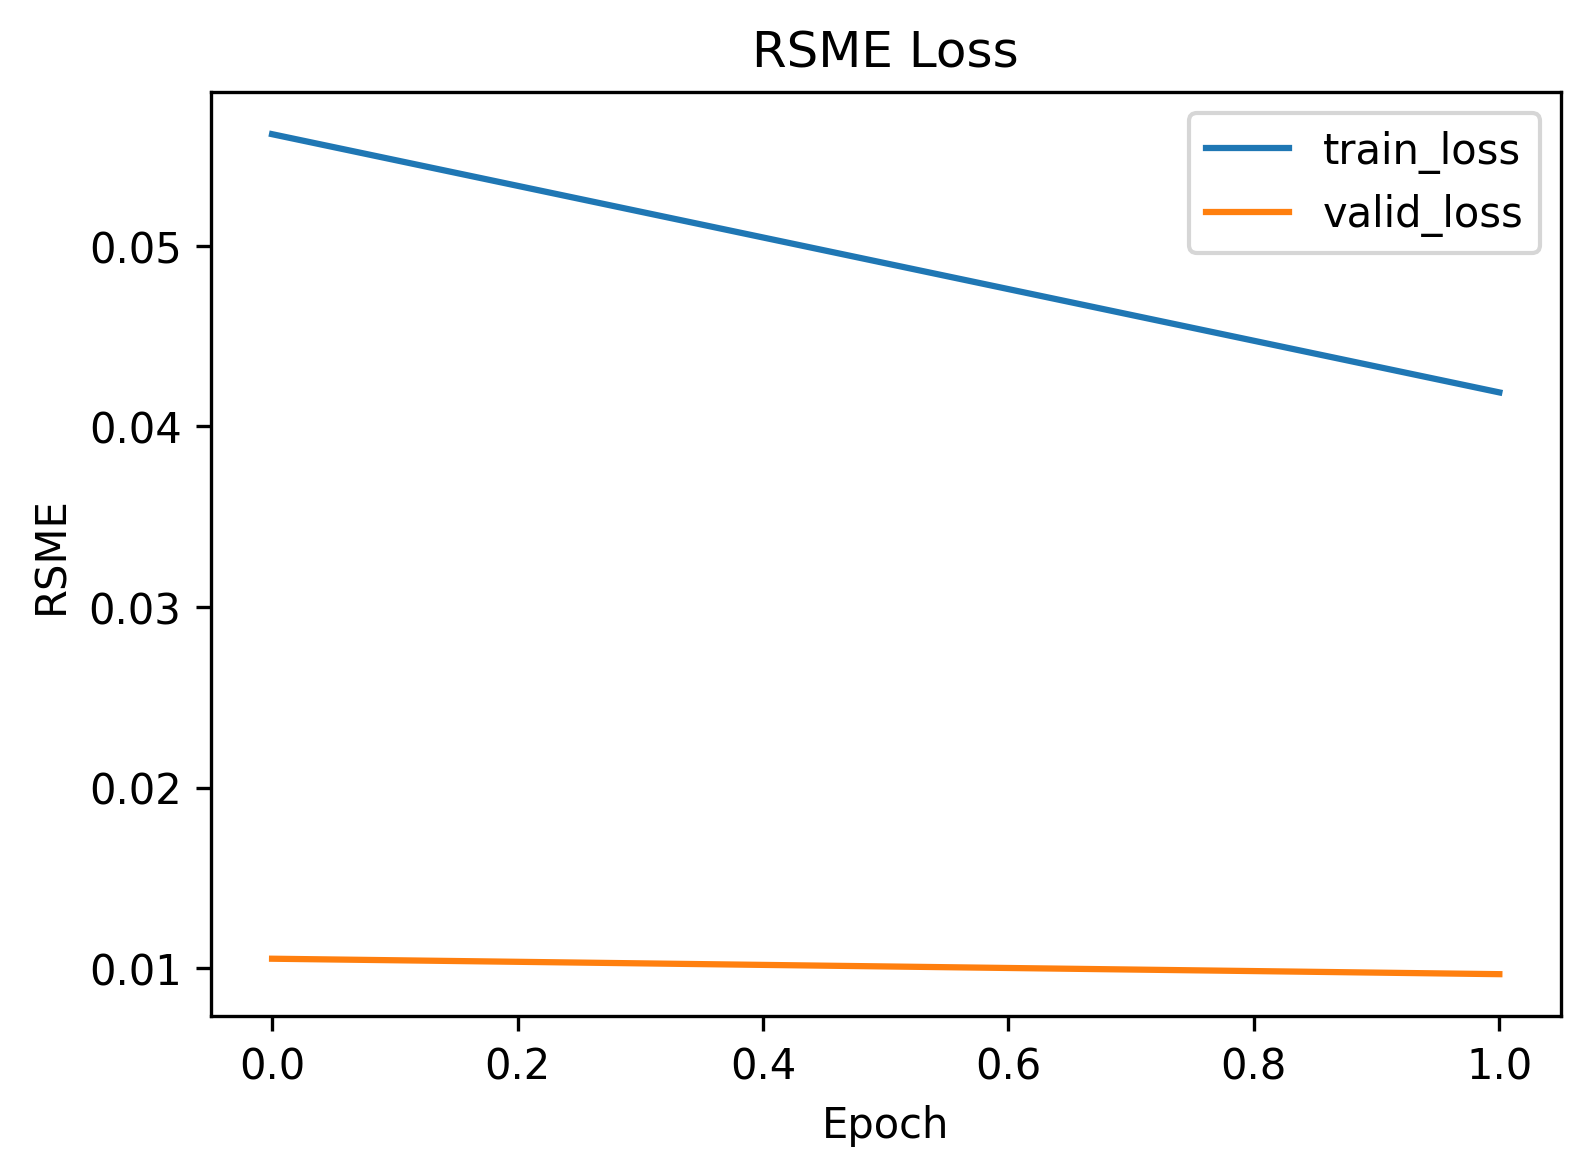
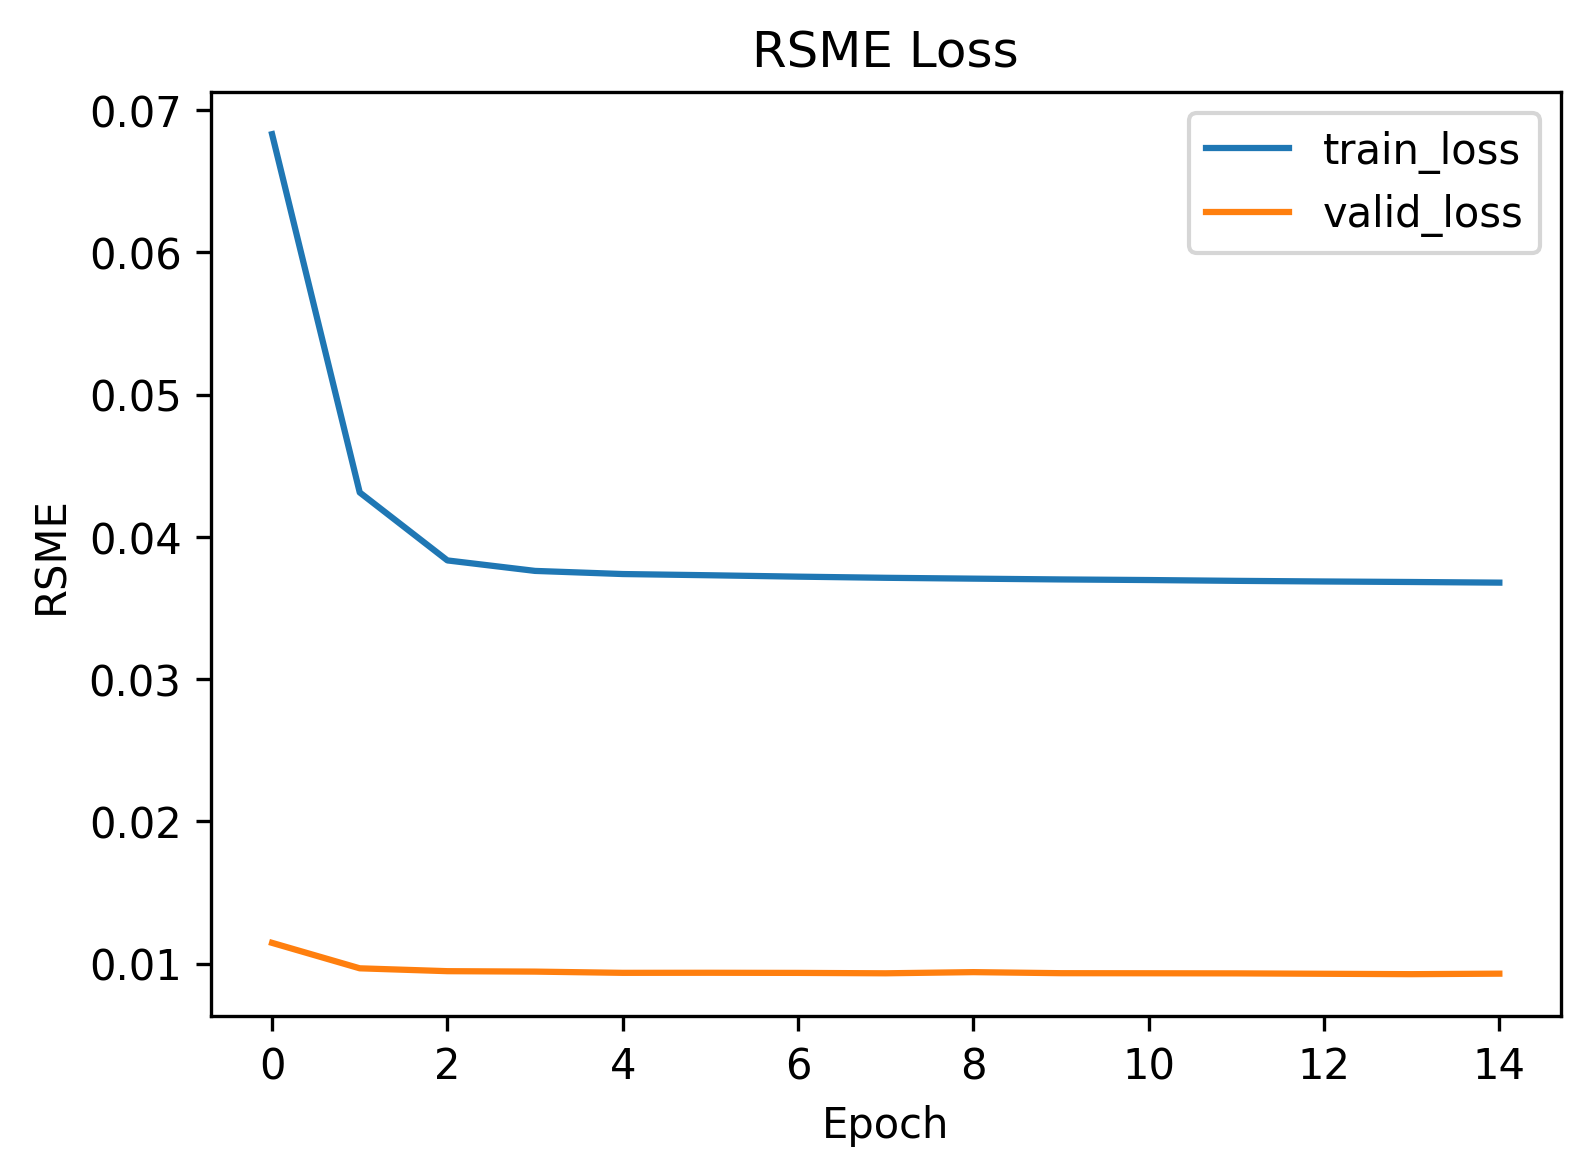
Prediction added for single and batch

diff --git a/src/MovieML/movie_predict.py b/src/MovieML/movie_predict.py
@@ -1,0 +1,139 @@
+import torch
+
+from sklearn.metrics import confusion_matrix
+import seaborn as sn
+import pandas as pd
+import numpy as np
+import matplotlib.pyplot as plt
+from movie_dataset import MovieDataset
+from movie_model import MovieRecommender
+from movie_globals import *
+
+def get_model(movie_data):
+    # define counts for embedding layers
+    num_users = movie_data.num_users
+    num_ages = movie_data.num_ages
+    num_genders = movie_data.num_genders
+    num_occupations = movie_data.num_occupations
+    num_movies = movie_data.num_movies
+    num_genres = movie_data.num_genres
+
+    # define hyperparameters
+    embedding_size = 50
+    hidden_size = 10
+
+    # My GPU doesn't have enough memory to train this model
+    #device = torch.device('cuda' if torch.cuda.is_available() else 'cpu')
+    device = torch.device('cpu')
+
+    # create model and move to device
+    model = MovieRecommender(num_users, num_genders, num_ages, num_occupations,
+                            num_movies, num_genres,
+                            embedding_size, hidden_size).to(device)
+
+    return model
+
+def predict_single(model, movie_data, n, device):
+     # get rating data piece
+    d = movie_data[n]
+    #print(d)
+    # X
+    user_ids_batch = torch.tensor(d['user_id']).to(device)
+    genders_batch = torch.tensor(d['gender']).to(device)
+    ages_batch = torch.tensor(d['age']).to(device)
+    occupations_batch = torch.tensor(d['occupation']).to(device)
+    movie_ids_batch = torch.tensor(d['movie_id']).to(device)
+    genres_batch = torch.tensor(d['genre']).to(device)
+    # Y
+    y =  d['rating']
+    # forward pass
+    yhat = model(user_ids_batch, genders_batch, ages_batch, occupations_batch, 
+                    movie_ids_batch, genres_batch)
+    
+    return y, yhat
+
+def matrix_all():
+    # evaluate the model
+    movie_data = MovieDataset()
+    num_movies = 1000
+    movie_loader = torch.utils.data.DataLoader(movie_data,
+                                                batch_size=num_movies,
+                                                shuffle=False,
+                                                num_workers=8)
+
+    device = torch.device('cpu')
+    model = get_model(movie_data)
+    model.load_state_dict(torch.load(MODEL_STATE))
+    model.eval()
+
+    y_list = list()
+    yhat_list = list()
+
+    for n,d in enumerate(movie_loader):
+        print(f'{n} ', end='', flush=True)
+        # X
+        user_ids_batch = d['user_id'].to(device)
+        genders_batch = d['gender'].to(device)
+        ages_batch = d['age'].to(device)
+        occupations_batch = d['occupation'].to(device)
+        movie_ids_batch = d['movie_id'].to(device)
+        genres_batch = d['genre'].to(device)
+        # Y
+        y =  d['rating'].to(device)
+        # Predict
+        yhat = model(user_ids_batch, genders_batch, ages_batch, occupations_batch, 
+                            movie_ids_batch, genres_batch)
+
+        y_list.extend(y)
+        yhat_list.extend(yhat)
+    
+    values = ['1', '2', '3', '4', '5']
+    chart_path = os.path.join(CHART_DIR, 'movie_rating_confusion_matrix_all_data.png')
+    make_matrix(y_list, yhat_list, values, 'Movie Rating Confusion Matrix All Data', chart_path)
+
+def predict_user(user_id):
+    # evaluate the model
+    movie_data = MovieDataset()
+
+    # get users
+    pred_list = movie_data.get_user_rating_indicies(user_id)
+
+    device = torch.device('cpu')
+    model = get_model(movie_data)
+    model.load_state_dict(torch.load(MODEL_STATE))
+    model.eval()
+
+    y_list = list()
+    yhat_list = list()
+
+    print('*'*30)
+    print(f'Predicting for user {user_id}')
+    for p in pred_list:
+        y, yhat = predict_single(model, movie_data, p, device)
+        
+        # back to star ratings
+        y = int(float(y) * 5.0)
+        yhat = round(float(yhat) * 5.0)
+
+        y_list.append(y)
+        yhat_list.append(yhat)
+
+        print(f'Item: {p} -> Predicted: {round(yhat)} Actual: {int(y)}')
+    print('*'*30)
+
+
+def make_matrix(y_true, y_pred, matrix_values, figure_title, figure_path):
+    # Build confusion matrix
+    cf_matrix = confusion_matrix(y_true, y_pred)
+    df_cm = pd.DataFrame(cf_matrix / np.sum(cf_matrix, axis=1)[:, None],
+                            index = [matrix_values],
+                            columns = [matrix_values])
+    plt.figure(figsize = (16,12))
+    plt.subplots_adjust(bottom=0.25)
+    plt.title(figure_title)
+    hm = sn.heatmap(df_cm, annot=True, linewidths=.5, cmap='plasma', fmt='.2f', linecolor='grey')
+    hm.set(xlabel='Predicted', ylabel='Truth')
+    plt.savefig(figure_path, dpi=300, bbox_inches="tight")
+
+if __name__ == '__main__':
+    matrix_all()

diff --git a/src/MovieML/movie_train.py b/src/MovieML/movie_train.py
@@ -13,7 +13,7 @@ from movie_utils import make_epoch_chart
 
 
 
-def main(epoch_count=5, batch_size=1000, validation_ratio=0.2, 
+def main(epoch_count=15, batch_size=1000, validation_ratio=0.2, 
          embedding_count=50, hidden_count=10, eta=0.001):
     # Train the model
     movie_data = MovieDataset()
@@ -157,28 +157,27 @@ def main(epoch_count=5, batch_size=1000, validation_ratio=0.2,
         save_report = ''
         # if validation loss decreases, save model
         if epoch > 0 and epoch_valid_losses[-2] > epoch_valid_losses[-1]:
-            model_path = os.path.join(MODEL_DIR, 'movie_model.pth')
-            torch.save(model.state_dict(), model_path)
-            save_report += f'Saved model to {model_path}'
+            torch.save(model.state_dict(), MODEL_STATE)
+            save_report += f'Saved model to {MODEL_STATE}\n\n'
             print(save_report)
         report += save_report
 
         stop_report = ''
         # if validation loss increases 4 times in a row, stop training
         if epoch > 5 and epoch_valid_losses[-4] < epoch_valid_losses[-3] < epoch_valid_losses[-2] < epoch_valid_losses[-1]:
-            stop_report = 'Stopping training...'
-            stop_report += f'Best model at epoch {epoch-3}'
-            stop_report += f'Best validation loss: {epoch_valid_losses[epoch-3]}'
-            stop_report += f'Best training loss: {epoch_train_losses[epoch-3]}'
-            stop_report += f'Last validation loss: {epoch_valid_losses[epoch]}'
-            stop_report += f'Last training loss: {epoch_train_losses[epoch]}'
+            stop_report = 'Stopping training...\n'
+            stop_report += f'Best model at epoch {epoch-3}\n'
+            stop_report += f'Best validation loss: {epoch_valid_losses[epoch-3]}\n'
+            stop_report += f'Best training loss: {epoch_train_losses[epoch-3]}\n'
+            stop_report += f'Last validation loss: {epoch_valid_losses[epoch]}\n'
+            stop_report += f'Last training loss: {epoch_train_losses[epoch]}\n\n'
             report += stop_report
             print(stop_report)
         report += stop_report
 
         
         # write out report and stop training if there is a stop report
-        if stop_report != '':
+        if stop_report != '' or epoch == num_epochs-1:
             # write report to file in DATA_OUT_DIR
             with open(os.path.join(DATA_OUT_DIR, 'movie_report.txt'), 'w') as f:
                 f.write(report)

diff --git a/src/MovieML/movie_dataset.py b/src/MovieML/movie_dataset.py
@@ -97,10 +97,21 @@ class MovieDataset(Dataset):
                 'gender': int(gender),
                 'age': int(age),
                 'occupation': int(occupation),
-                #'movie': movie, 
+                'movie': movie, 
                 'genre': int(genre),
-                #'link': torch.tensor(movie_link), 
+                #'link': int(movie_link), 
                 'rating': float(rating)}
+
+    def get_user_unrated_movies(self, idx):
+        user_id = self.ratings.iloc[idx]['userID']
+        user_ratings = self.ratings.loc[self.ratings['userID']==user_id]['movieID']
+        all_movies = self.movies['movieID']
+        unwatched_movies = all_movies[~all_movies.isin(user_ratings)]
+        return unwatched_movies
+    
+    def get_user_rating_indicies(self, user_id):
+        return self.ratings.loc[self.ratings['userID']==user_id].index.values
+    
 
 
 if __name__ == '__main__':

diff --git a/src/MovieML/movie_globals.py b/src/MovieML/movie_globals.py
@@ -11,6 +11,7 @@ DATA_OUT_DIR = os.path.join(PROJ_PATH, 'data_out')
 # CSV_DIR = os.path.join(SCRIPT_DIR, '..', 'csv')
 CHART_DIR = os.path.join(PROJ_PATH, 'charts')
 MODEL_DIR = os.path.join(PROJ_PATH, 'models')
+MODEL_STATE = os.path.join(MODEL_DIR, 'movie_model.pth')
 
 # Dataset related constants
 AGE_DICT = {1:"Under 18",
